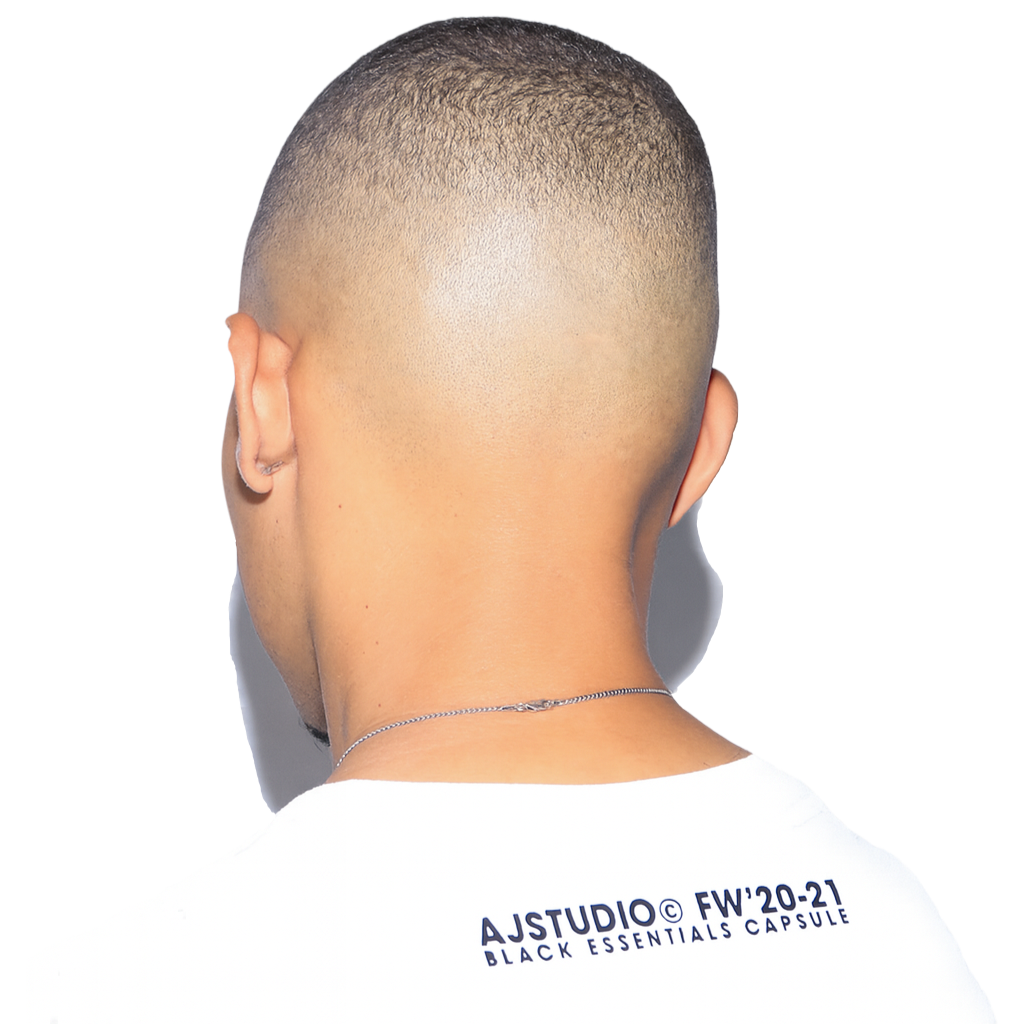
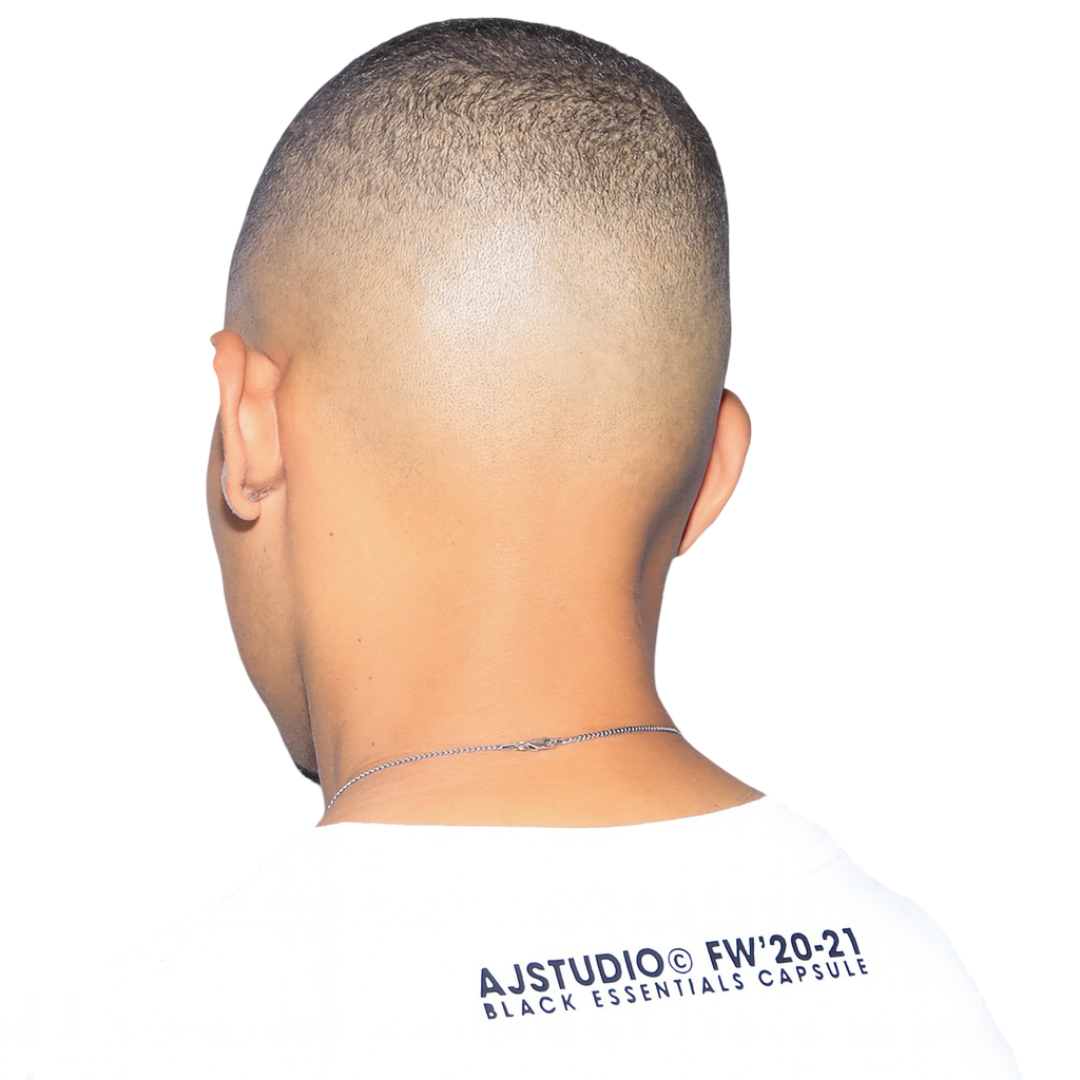
animation for booknow

Changed region(s): [[0.1875, 0.0, 0.75, 0.8125], [0.4375, 0.8438, 0.8438, 0.9688]]

diff --git a/templates/home.html b/templates/home.html
@@ -7,7 +7,7 @@
 
   <!-- HERO SECTION -->
   <section class="hero-section white text-white text-center d-flex align-items-center justify-content-center">
-    <video id="heroVideo" width="100%" height="100%" muted autoplay loop>
+    <video id="heroVideo" width="100%" height="100%" poster="../static/video/coverGif.gif" muted autoplay loop playsinline preload="auto">
       <source src="../static/video/coverVideo.mp4" type="video/mp4">
       <!-- <source src="movie.ogg" type="video/ogg"> -->
     Your browser does not support the video tag.
@@ -24,7 +24,7 @@
     <h2>Welcome To Antonio Jefferson Studio</h2>
     <p>The Antonio Jefferson Studio is a modern sunlit space ideal for photo shoots, interviews, content days, and intimate creative events. Featuring stylish furniture, versatile backdrops, and natural lighting, the studio offers a warm and professional setting to bring your ideas to life. Located in the vibrant DUMBO area, it’s just steps away from top dining spots like Celestine, The River Cafe, Juliana’s, Time Out Market, Dumbo House, and Nobody Told Me, perfect for post shoot meals or client meetups. Easily accessible by multiple train lines and minutes from Manhattan, our studio balances comfort, convenience, and creative potential.</p>
 
-    <div class="btn"> Explore the Studio</div>
+    <a href="{{ url_for('studio') }}"><div class="btn">Explore the Studio</div></a>
 
     <h2 id="whyUs">Why Choose Us?</h2>
     <p>Antonio Jefferson Studio is more than just a space,  it's a creative environment built for artists, brands, and storytellers. With natural light, professional-grade equipment, and a minimalist aesthetic, the studio is designed to adapt to your vision. Whether you're booking a shoot or renting the space for your own project, you'll find a clean, functional, and inspiring setting that supports quality work. From the curated amenities to the intentional layout, everything here is set up to make your process smoother and your final product stronger.</p>
@@ -91,6 +91,18 @@
         </div>
       </div>
 
+<div id="animation">
+  <div id="aj-orbit-wrapper">
+    <div class="aj-orbit-piece" style="background-image: url('../static/compressedImg/IMG_0208-1edit-min.jpg');"></div>
+    <div class="aj-orbit-piece" style="background-image: url('../static/compressedImg/_53A1217-editfinal-min.jpg');"></div>
+    <div class="aj-orbit-piece" style="background-image: url('../static/compressedImg/DJI_0880-edit-min.jpg');"></div>
+    <div class="aj-orbit-piece" style="background-image: url('../static/compressedImg/_53A1288-EDIT-min.jpg');"></div>
+    <div class="aj-orbit-piece" style="background-image: url('../static/compressedImg/_53A1289-EDIT-min.jpg');"></div>
+    <div class="aj-orbit-piece" style="background-image: url('../static/compressedImg/DJI_0816-edit-min.jpg');"></div>
+  </div>
+</div>
+
+
   </section>
 
   <div id="questions">
@@ -105,11 +117,156 @@
 </div>
 
 <script src="https://cdn.jsdelivr.net/npm/motion@latest/dist/motion.js"></script>
+
 <script>
+let focusedIndex = null;
+const body = document.body;
+window.addEventListener("DOMContentLoaded", () => {
+  const panels = document.querySelectorAll(".aj-orbit-piece");
+  const wrapper = document.getElementById("aj-orbit-wrapper");
+  const animationContainer = document.getElementById("animation");
+  const radius = window.innerWidth * 0.06;
+
+  const centerX = 0;
+  const centerY = 0;
+  const centerZ = 0;
+
+  const screenW = window.innerWidth;
+  const baseX = screenW * (screenW < 768 ? 0.12 : screenW < 1024 ? 0.08 : 0.05);
+  const positions = [
+    { x: -baseX * 2.5, y: -120, z: 100 },
+    { x: -baseX * 3.5, y: 120, z: 50 },
+    { x: -baseX * 1.5, y: -90, z: 0 },
+    { x: baseX * 0.5, y: 100, z: -50 },
+    { x: baseX * 1.5, y: -80, z: -100 },
+    { x: baseX * 3.5, y: 80, z: 80 },
+  ];
+
+  // Initial placement
+  panels.forEach((el, i) => {
+    const pos = positions[i];
+    el.dataset.startX = pos.x;
+    el.dataset.startY = pos.y;
+    el.dataset.startZ = pos.z;
+  });
+
+  panels.forEach((el, i) => {
+    el.style.transition = "transform 0.6s linear, opacity 0.6s";
+
+    el.addEventListener("click", (e) => {
+      e.stopPropagation(); // Prevent bubbling to body
+      if (focusedIndex === i) {
+        focusedIndex = null;
+      } else {
+        focusedIndex = i;
+      }
+    });
+  });
+  
+  body.addEventListener("click", () => {
+    if (focusedIndex !== null) {
+      focusedIndex = null;
+    }
+  });
+
+
+  let mouseX = 0;
+  let mouseY = 0;
+
+  document.addEventListener("mousemove", (e) => {
+    const rect = wrapper.getBoundingClientRect();
+    mouseX = ((e.clientX - rect.left) / rect.width - 0.5) * 2;
+    mouseY = ((e.clientY - rect.top) / rect.height - 0.5) * 2;
+  });
+
+  function updateRotation() {
+    const rotateX = mouseY * 10;
+    const rotateY = -mouseX * 10;
+    panels.forEach((el) => {
+      const match = el.style.transform.match(/translate3d\([^)]+\)/);
+      if (match) {
+        el.style.transform = `${match[0]} rotateX(${-rotateX}deg) rotateY(${-rotateY}deg)`;
+      }
+    });
+  }
+
+  function updateScrollAnimation() {
+    const rect = animationContainer.getBoundingClientRect();
+    const viewportHeight = window.innerHeight;
+    let progress = 1.2 - (rect.top + rect.height / 2 - viewportHeight / 2) / viewportHeight;
+    progress = Math.min(Math.max(progress, 0), 1);
+
+    panels.forEach((el, i) => {
+      const pos = positions[i];
+
+      if (focusedIndex === i) {
+        el.style.zIndex = 10;
+        el.style.transform = `translate3d(0px, 0px, 400px) scale(3) rotateX(0deg) rotateY(0deg)`;
+        el.style.opacity = 1;
+      } else {
+        const angle = Math.PI + i * 0.8 + (1 - progress) * Math.PI;
+        const orbitX = Math.cos(angle) * radius * progress;
+        const orbitZ = Math.sin(angle) * radius * progress;
+
+        const moveX = centerX * (1 - progress) + pos.x * progress + orbitX;
+        const moveY = centerY * (1 - progress) + pos.y * progress;
+        const moveZ = centerZ * (1 - progress) + pos.z * progress + orbitZ;
+
+        const scale = 0.2 + progress * 0.9;
+        const opacity = focusedIndex === null ? progress : 0.3;
+
+        el.style.zIndex = 1;
+        el.style.transform = `translate3d(${moveX}px, ${moveY}px, ${moveZ}px) scale(${scale}) rotateX(${-mouseY * 10}deg) rotateY(${-mouseX * 10}deg)`;
+        el.style.opacity = opacity;
+      }
+    });
+  }
+
+
+  function loop() {
+    updateScrollAnimation();
+    updateRotation();
+    requestAnimationFrame(loop);
+  }
+
+  loop();
+});
+</script>
+
+
+
+
+
+
+
+
+
+
+
+
+
+
+
+
+
+
+<script>
+function scaleToFit() {
+  const targetWidth = window.innerWidth * 0.8;
+  const baseWidth = 1100; // assumed base layout width
+  const scale = targetWidth / baseWidth;
+
+  const wrapper = document.getElementById("aj-orbit-wrapper");
+  wrapper.style.transform = `scale(${scale})`;
+  wrapper.style.transformOrigin = "center";
+}
+
+window.addEventListener("resize", scaleToFit);
+scaleToFit();
   const { scroll, animate } = Motion
 
   document.querySelectorAll(".bookNowImg").forEach((img, i) => {
-    const targetOpacity = 0.9 + 0.1 * (i % 4); // 0.6 → 0.9
+    const targetOpacity = 0.9 + 0.1 * (i % 4);
     
     scroll(
       animate(img, { opacity: [0, targetOpacity] }, { duration: 1 }),
@@ -199,6 +356,7 @@
       offset: ["start start", "40px start"], // starts at 40px
     }
   );
+
 </script>
 
 

diff --git a/static/styles.css b/static/styles.css
@@ -80,6 +80,11 @@ a:link{
   text-decoration: none;
 }
 
+.btn:hover{
+  color:black;
+}
+
+
 #contactBtn{
   position: fixed;
   bottom: 1vh;
@@ -552,6 +557,9 @@ p{
   }
 
 }
+#images{
+  display:none;
+}
 
 
 @media (max-width: 600px) {
@@ -600,6 +608,7 @@ p{
     width: 100%;
     padding-left: 0;
     padding-right: 25%;
+    display: block;
   }
 
   .bookNowImg {
@@ -613,6 +622,9 @@ p{
     padding-left: 0;
     margin-bottom: 0;
     padding:0;
+  }
+  #animation{
+    display:none;
   }
 
   #row3{
@@ -659,6 +671,7 @@ p{
   }
 
 }
+
 
 /*################################################################################*/
 
@@ -1257,4 +1270,46 @@ li{
     width:100%;
   }
 }
+
+
+#animation {
+  position: relative;
+  height: 50vw;
+  display: flex;
+  justify-content: center;
+  align-items: center;
+}
+
+#aj-orbit-wrapper {
+  position: absolute;
+  width: 800px;
+  height: 700px;
+  perspective: 1200px;
+  display: flex;
+  justify-content: center;
+  align-items: center;
+}
+
+.aj-orbit-piece {
+  position: absolute;
+  width: 250px;
+  height: 180px;
+  border-radius: 20px;
+  transform: scale(1);
+  opacity: 1;
+  box-shadow: 0 10px 25px rgba(0, 0, 0, 0.2);
+  transform-style: preserve-3d;
+  backface-visibility: hidden;
+  background-size: cover;
+  background-position: center;
+}
+
+@media (max-width: 600px) {
+  #animation{
+    display:none
+  }
+}
+
+
+
 
